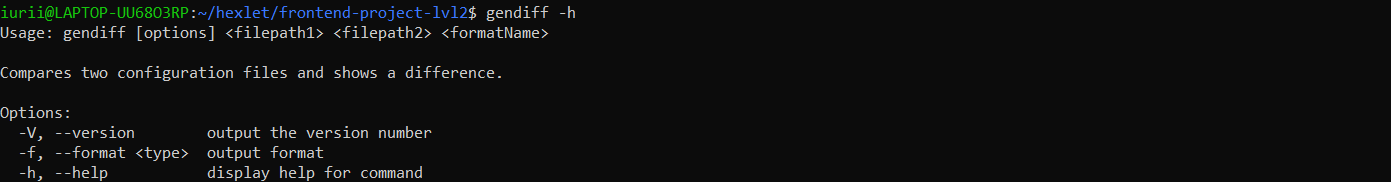
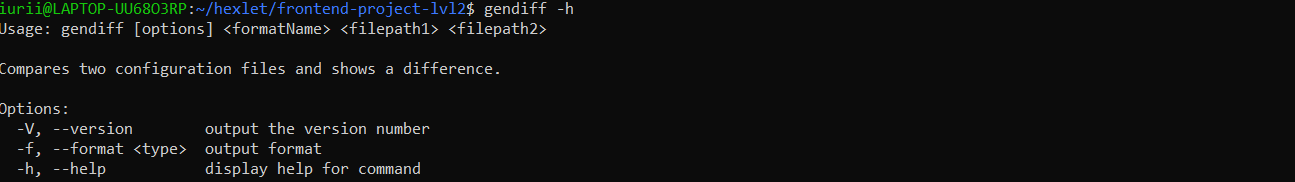
Update Readme

diff --git a/README.md b/README.md
@@ -14,12 +14,15 @@ Type gendiff -h for information
 
 ![help](pictures/1.png?raw=true "help info")
 
-Type gendiff filePathName1 filePathName2 format
+Type gendiff format filePathName1 filePathName2 
 To find difference between files. Only files json, yaml, yml are supported.
 
-filePathName1 filePathName2 formatPlain
+plain filePathName1 filePathName2 
 ![Sample](pictures/2.png?raw=true "Sample")
 
-filePathName1 filePathName2 formatter
+tree filePathName1 filePathName2 
+![Sample](pictures/3.png?raw=true "Sample")
+
+json filePathName1 filePathName2 
 ![Sample](pictures/3.png?raw=true "Sample")
 
